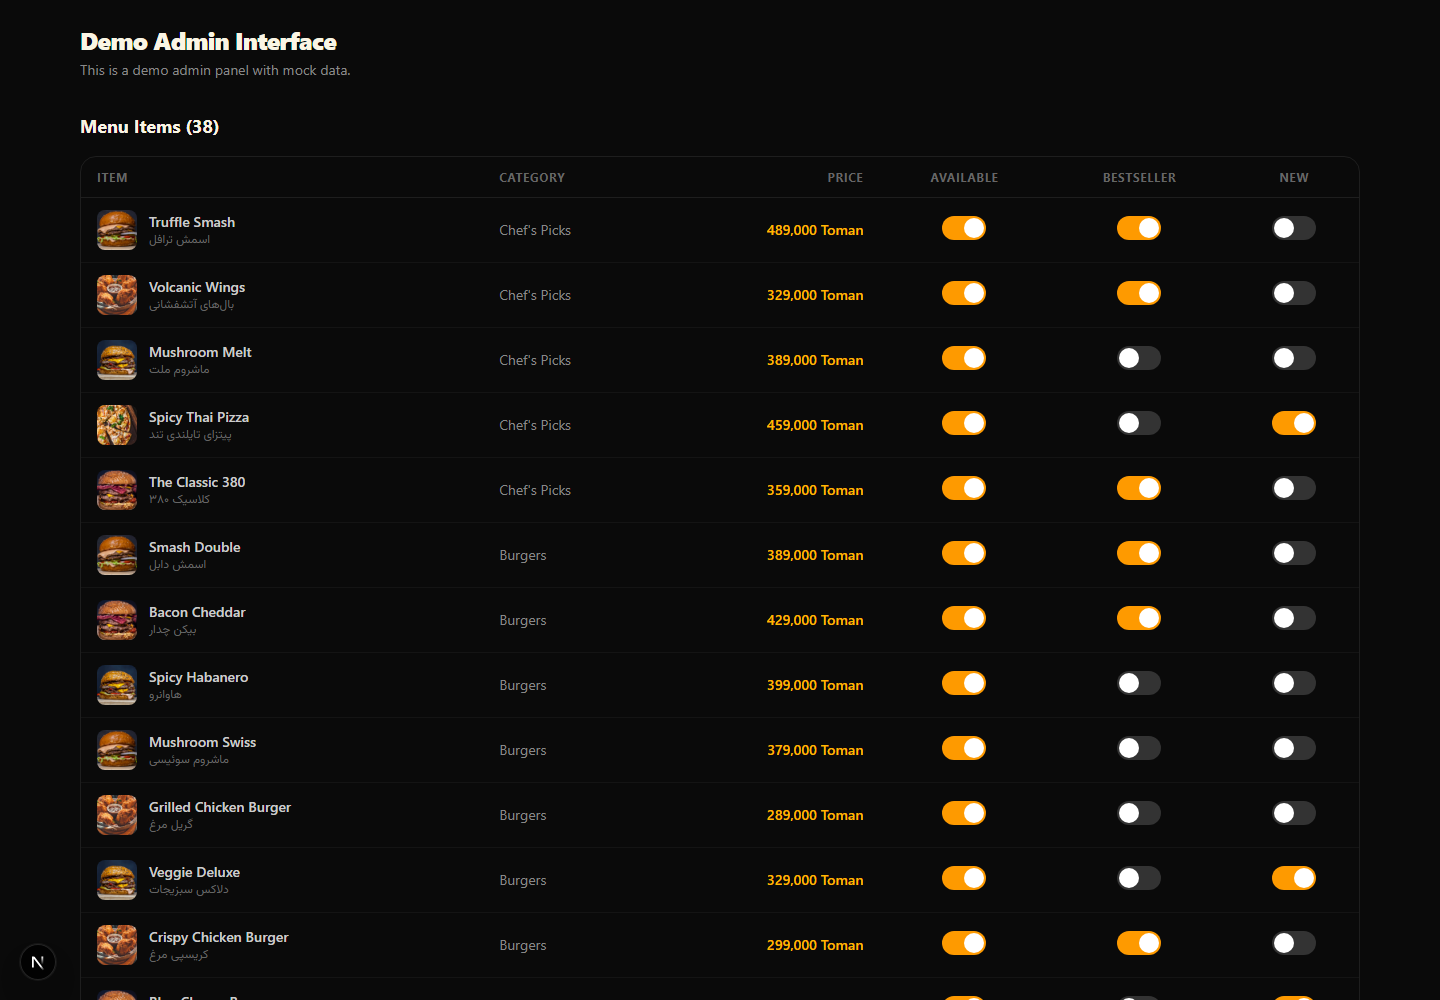
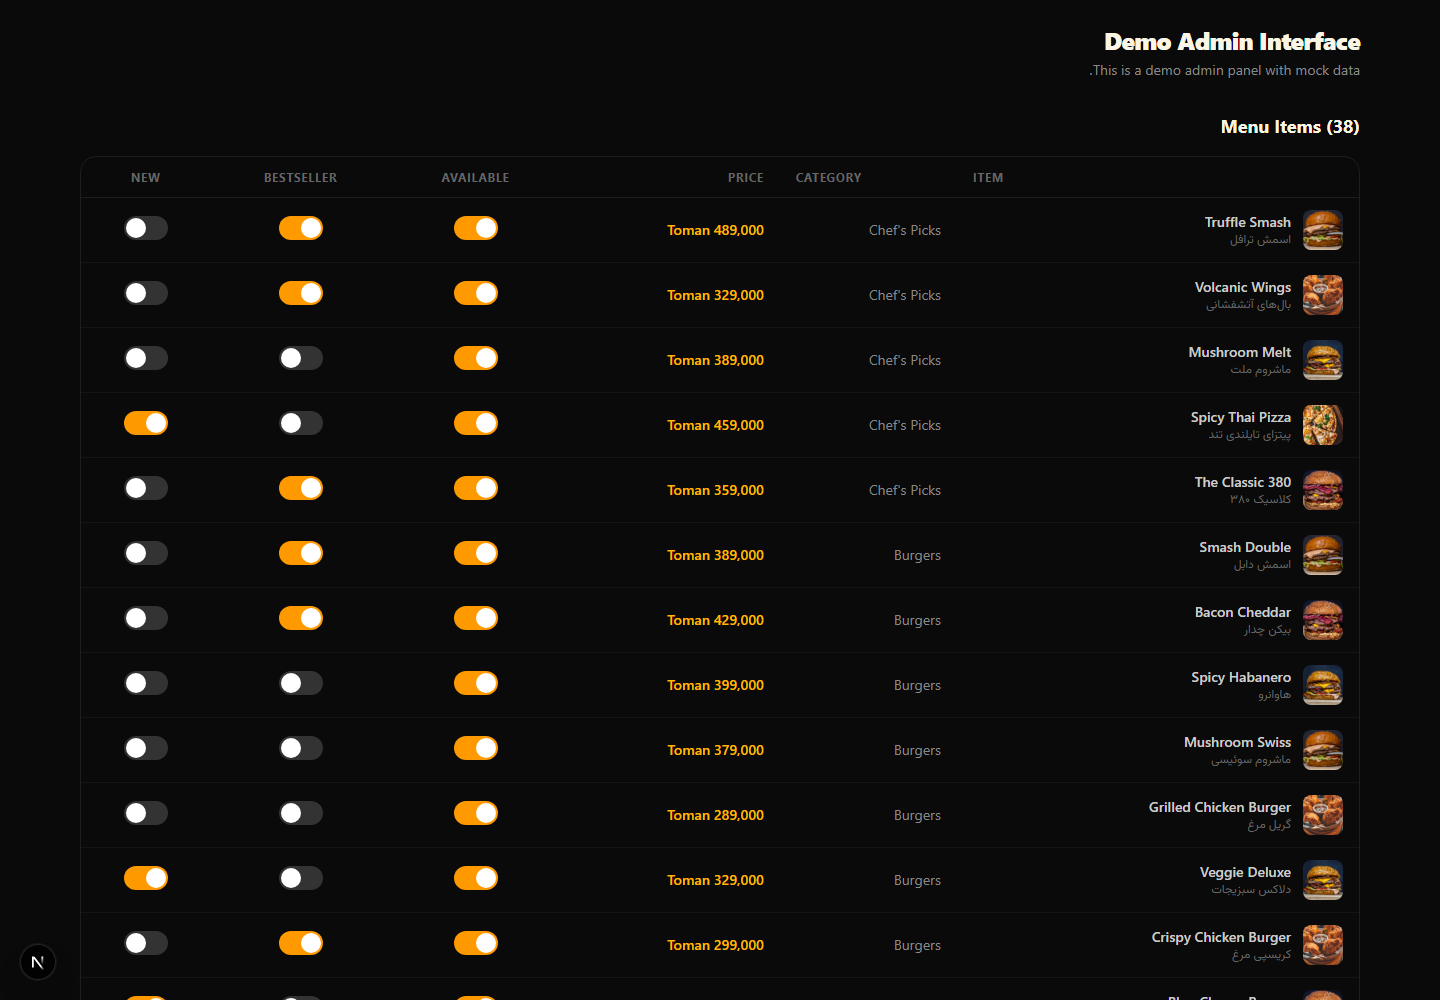
fix: resolve layout architecture, hydration, and lint issues

diff --git a/src/app/[locale]/layout.tsx b/src/app/[locale]/layout.tsx
@@ -1,7 +1,7 @@
 "use client";
 
-import { useState } from "react";
-import { useParams } from "next/navigation";
+import { useState, useEffect } from "react";
+import { useParams, useRouter, usePathname } from "next/navigation";
 import { CartProvider } from "@/lib/providers/cart-provider";
 import { LocaleProvider } from "@/lib/providers/locale-provider";
 import { ToastProvider } from "@/lib/providers/toast-provider";
@@ -11,63 +11,82 @@ import { AppFooter } from "@/components/layout/app-footer";
 import { CartDrawer } from "@/components/cart/cart-drawer";
 import { SearchOverlay } from "@/components/search/search-overlay";
 import type { Locale } from "@/lib/types";
-import { useRouter } from "next/navigation";
 
 export default function LocaleLayout({ children }: { children: React.ReactNode }) {
   const params = useParams();
   const locale = (params.locale as Locale) || "fa";
   const router = useRouter();
+  const pathname = usePathname();
   const [searchOpen, setSearchOpen] = useState(false);
   const [cartOpen, setCartOpen] = useState(false);
 
+  useEffect(() => {
+    document.documentElement.lang = locale;
+    document.documentElement.dir = locale === "fa" ? "rtl" : "ltr";
+  }, [locale]);
+
+  const handleLocaleChange = (target: Locale) => {
+    const restPath = pathname.replace(/^\/(fa|en)\b/, "");
+    router.push(`/${target}${restPath || "/menu"}`);
+  };
+
+  const activeTab = pathname.includes("/cart")
+    ? "cart"
+    : pathname.includes("/build-burger")
+    ? "build"
+    : pathname.includes("/favorites")
+    ? "favorites"
+    : pathname.includes("/menu")
+    ? "menu"
+    : "home";
+
   return (
-    <html lang={locale} dir={locale === "fa" ? "rtl" : "ltr"} className="h-full antialiased">
-      <body className="min-h-full flex flex-col bg-[#0a0a0a]">
-        <LocaleProvider initialLocale={locale}>
-          <CartProvider>
-            <ToastProvider>
-              <AppHeader
-                onSearchOpen={() => setSearchOpen(true)}
-                onCartOpen={() => setCartOpen(true)}
-              />
+    <LocaleProvider initialLocale={locale}>
+      <CartProvider>
+        <ToastProvider>
+          <AppHeader
+            onSearchOpen={() => setSearchOpen(true)}
+            onCartOpen={() => setCartOpen(true)}
+          />
 
-              <main className="flex-1 pt-16 pb-20 md:pb-0">
-                {children}
-              </main>
+          <main className="flex-1 pt-16 pb-20 md:pb-0">
+            {children}
+          </main>
 
-              <MobileNav
-                activeTab="home"
-                onTabChange={(tab) => {
-                  const routes: Record<string, string> = {
-                    home: `/${locale}`,
-                    menu: `/${locale}/menu`,
-                    build: `/${locale}/build-burger`,
-                    favorites: `/${locale}/favorites`,
-                    cart: `/${locale}/cart`,
-                  };
-                  router.push(routes[tab] || `/${locale}`);
-                }}
-              />
+          <MobileNav
+            activeTab={activeTab}
+            onTabChange={(tab) => {
+              const routes: Record<string, string> = {
+                home: `/${locale}`,
+                menu: `/${locale}/menu`,
+                build: `/${locale}/build-burger`,
+                favorites: `/${locale}/favorites`,
+                cart: `/${locale}/cart`,
+              };
+              router.push(routes[tab] || `/${locale}`);
+            }}
+          />
 
-              <AppFooter locale={locale} />
+          <AppFooter
+            locale={locale}
+            onLocaleChange={handleLocaleChange}
+          />
 
-              <CartDrawer
-                isOpen={cartOpen}
-                onClose={() => setCartOpen(false)}
-                onCheckout={() => {
-                  setCartOpen(false);
-                  router.push(`/${locale}/checkout`);
-                }}
-              />
+          <CartDrawer
+            isOpen={cartOpen}
+            onClose={() => setCartOpen(false)}
+            onCheckout={() => {
+              setCartOpen(false);
+              router.push(`/${locale}/checkout`);
+            }}
+          />
 
-              <SearchOverlay
-                isOpen={searchOpen}
-                onClose={() => setSearchOpen(false)}
-              />
-            </ToastProvider>
-          </CartProvider>
-        </LocaleProvider>
-      </body>
-    </html>
+          <SearchOverlay
+            isOpen={searchOpen}
+            onClose={() => setSearchOpen(false)}
+          />
+        </ToastProvider>
+      </CartProvider>
+    </LocaleProvider>
   );
 }

diff --git a/src/app/demo/design-system/page.tsx b/src/app/demo/design-system/page.tsx
@@ -25,8 +25,7 @@ export default function DesignSystemPage() {
   const sampleItem = menuItems[0];
 
   return (
-    <html lang="en" dir="ltr">
-      <body className="min-h-screen bg-[#0a0a0a] text-[#faf5e4] p-6">
+    <div className="min-h-screen bg-[#0a0a0a] text-[#faf5e4] p-6">
         <div className="mx-auto max-w-4xl">
           <div className="mb-10">
             <h1 className="text-3xl font-black tracking-tight mb-1">Design System</h1>
@@ -284,7 +283,6 @@ export default function DesignSystemPage() {
             )}
           </section>
         </div>
-      </body>
-    </html>
+    </div>
   );
 }

diff --git a/src/app/demo/admin/page.tsx b/src/app/demo/admin/page.tsx
@@ -32,8 +32,7 @@ export default function AdminPage() {
   };
 
   return (
-    <html lang="en" dir="ltr">
-      <body className="min-h-screen bg-[#0a0a0a] text-[#faf5e4] p-6">
+    <div className="min-h-screen bg-[#0a0a0a] text-[#faf5e4] p-6">
         <div className="mx-auto max-w-7xl">
           <div className="mb-8">
             <h1 className="text-2xl font-black tracking-tight mb-1">Demo Admin Interface</h1>
@@ -172,7 +171,6 @@ export default function AdminPage() {
             </div>
           </section>
         </div>
-      </body>
-    </html>
+    </div>
   );
 }

diff --git a/src/app/layout.tsx b/src/app/layout.tsx
@@ -35,5 +35,9 @@ export default function RootLayout({
 }: {
   children: React.ReactNode;
 }) {
-  return children;
+  return (
+    <html lang="fa" dir="rtl" className="h-full antialiased">
+      <body className="min-h-full flex flex-col bg-[#0a0a0a]">{children}</body>
+    </html>
+  );
 }
